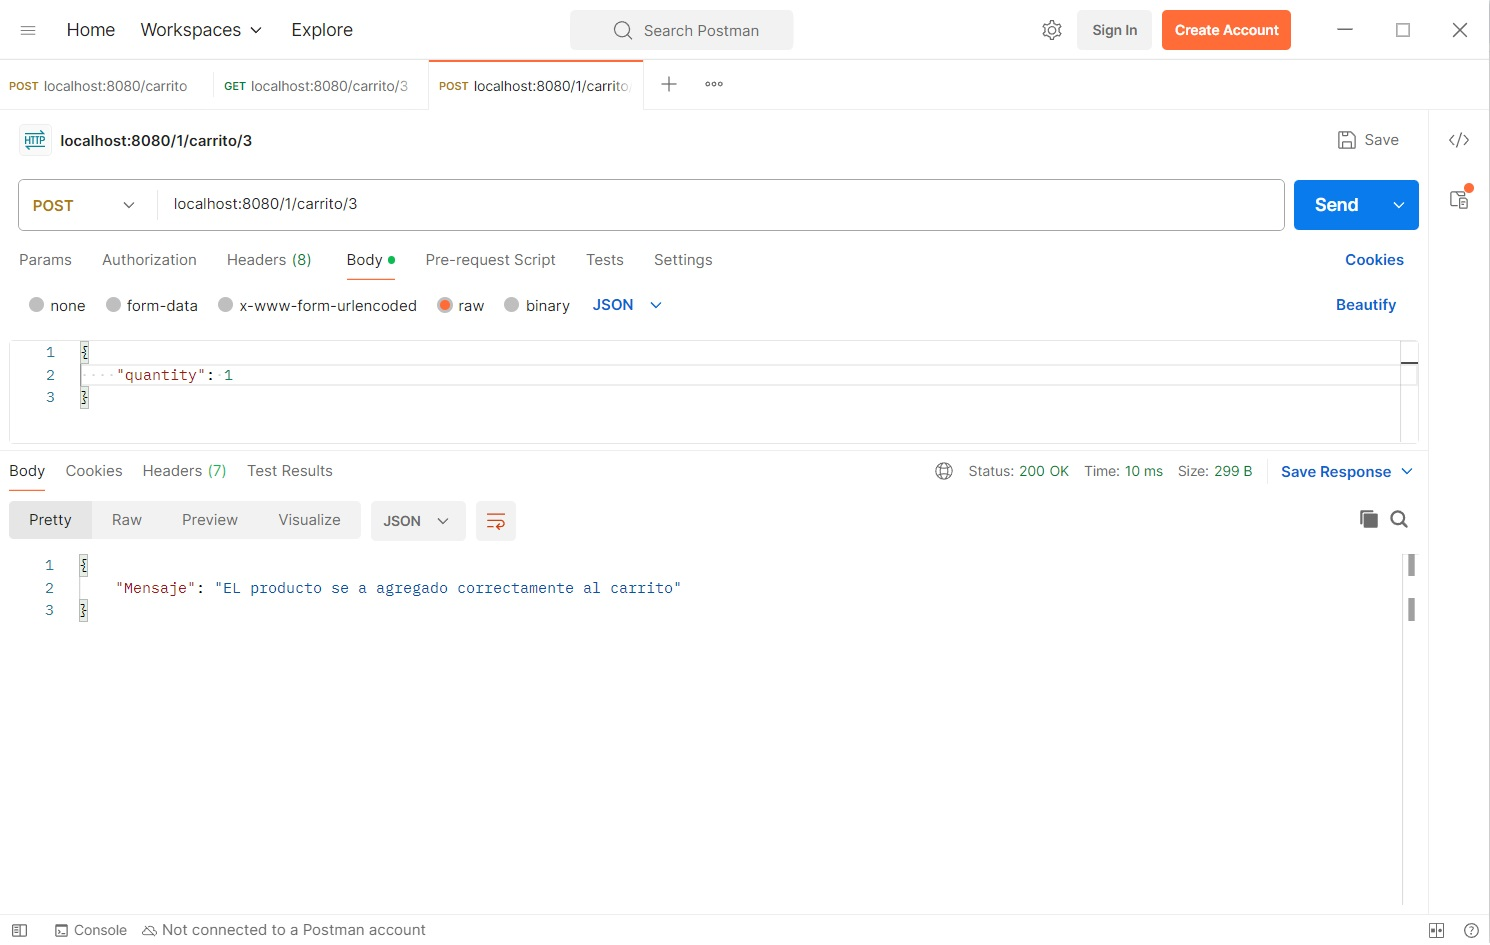
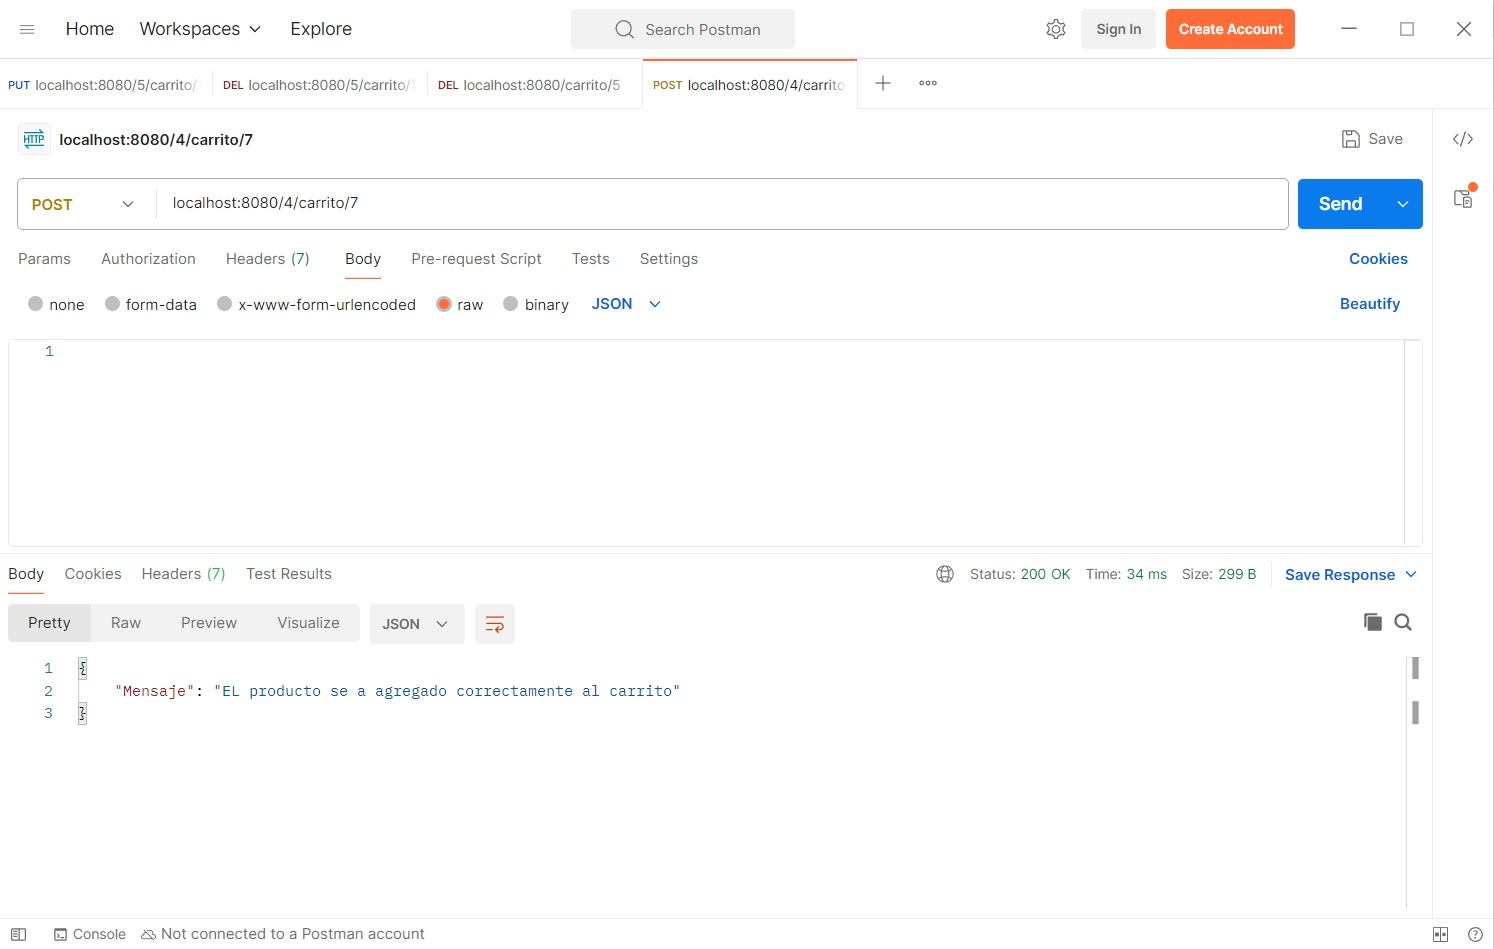
final

diff --git a/README.md b/README.md
@@ -49,7 +49,7 @@ Se coloca la URL: http://localhost:8080/carrito y se coloca en el body de POSTMA
 Se coloca la URL: http://localhost:8080/carrito/cid y muestra el contenido del carrito identificado con ese Id en el archivo carts.json. Ejemplo: http://localhost:8080/carrito/3.
 ###### POST:
 - **Agregar un producto a un carrito por su Id:**
-Se coloca la URL: http://localhost:8080/carrito/cid y se coloca en el body de POSTMAN el paramétro {"quantity: ..."} con la cantidad a modificar. Se guarda el cambio en el archivo carts.json. Ejemplo: http://localhost:8080/carrito/3.
+Se coloca la URL: http://localhost:8080/carrito/cid y no se coloca nada en el body de POSTMAN.Crea un producto nuevo con una "quantity" :1. Se guarda el cambio en el archivo carts.json. Ejemplo: http://localhost:8080/4/carrito/7.
 ###### PUT:
 - **Actualizar la cantidad un producto en un carrito por su Id:**
 Se coloca la URL: http://localhost:8080/cid/carrito/id y actualiza la cantidad de un producto en un carrito identificado por su Id. Ejemplo: http://localhost:8080/5/carrito/1
